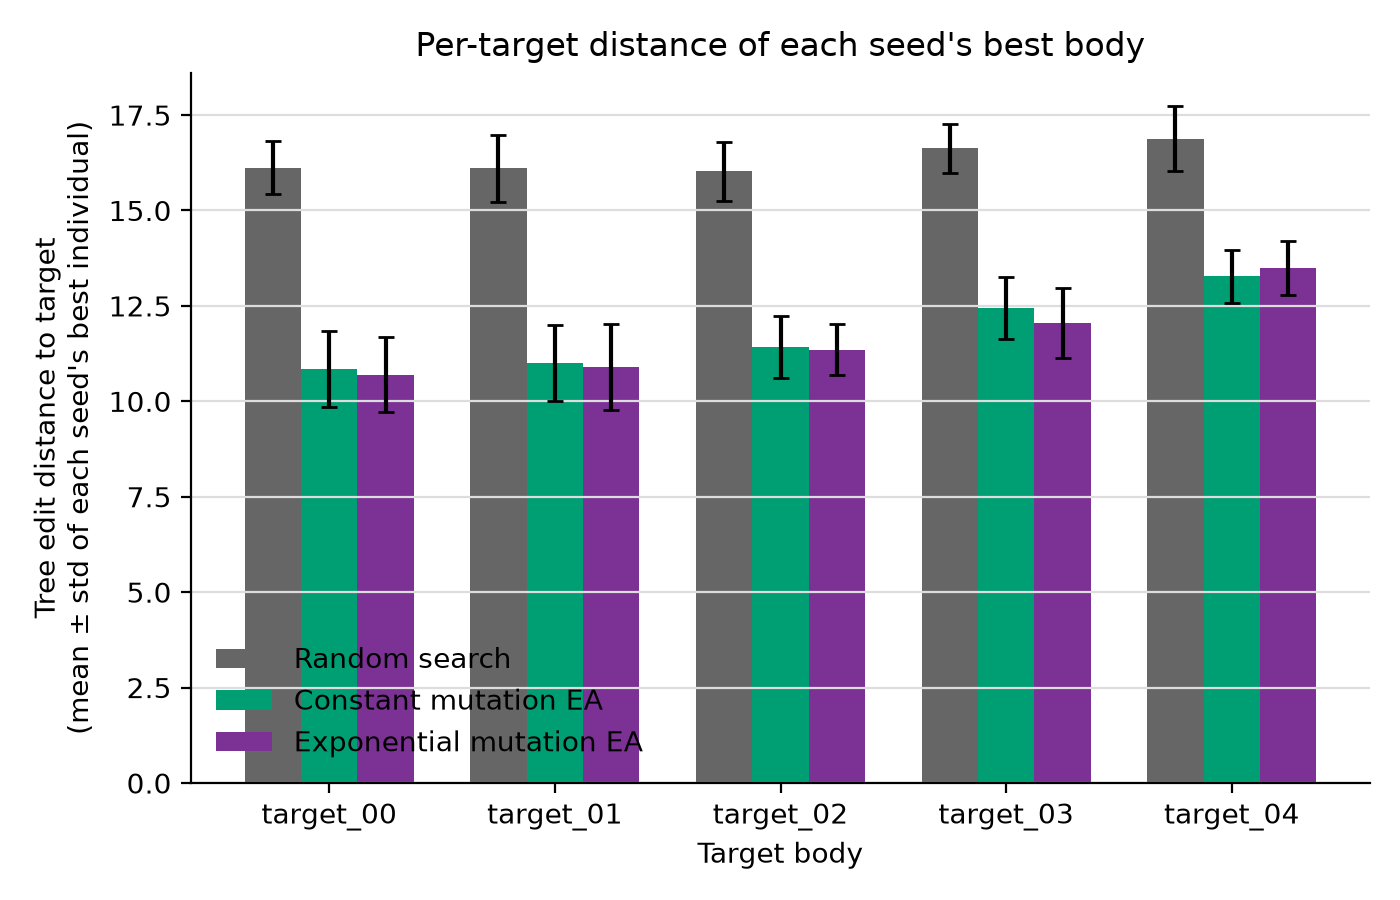
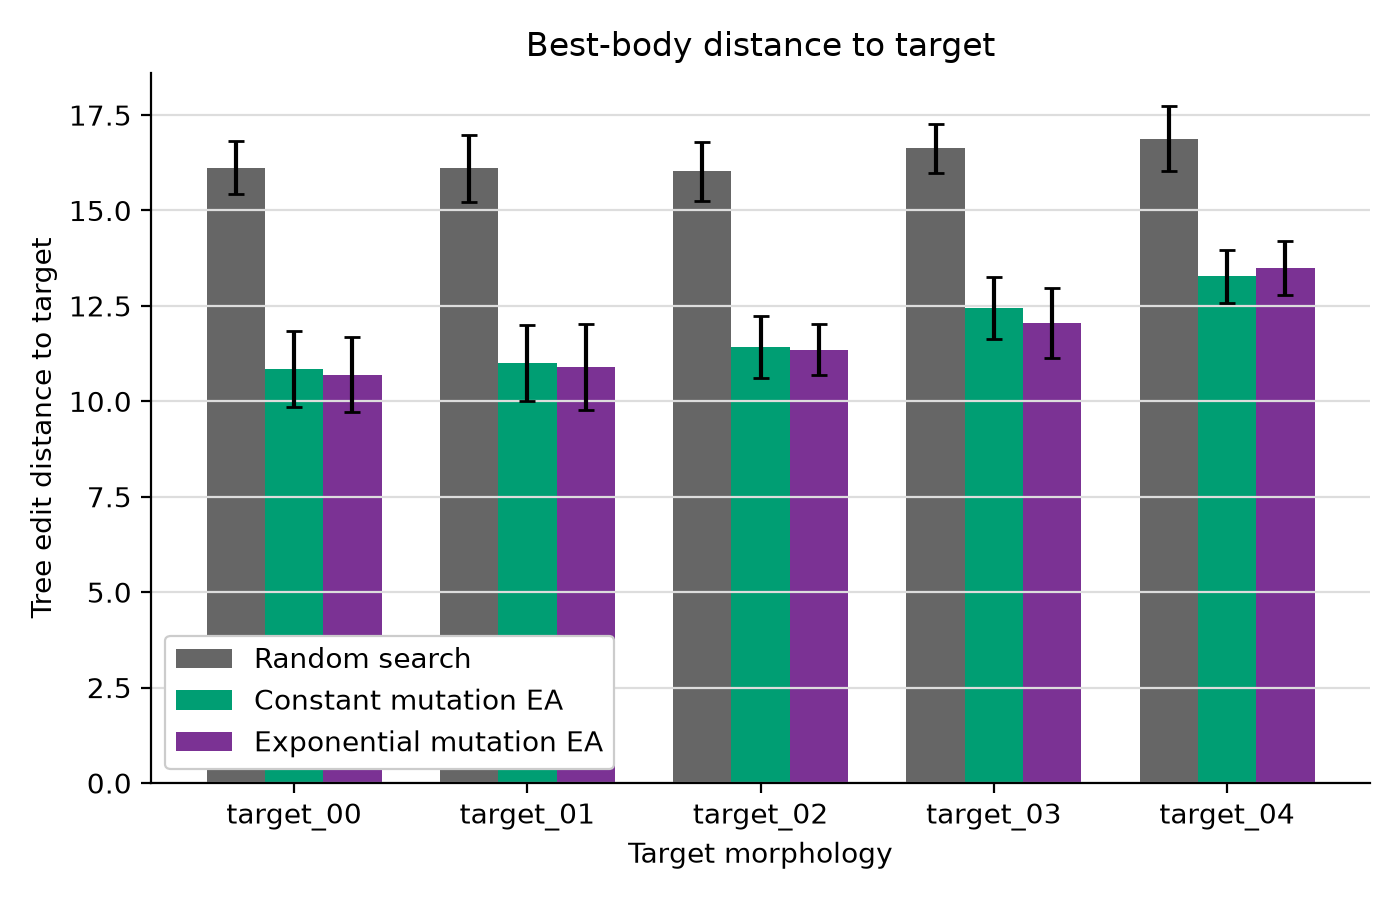
update plots

Changed region(s): [[0.0, 0.0933, 0.9214, 0.9644], [0.2764, 0.0311, 0.8293, 0.0622]]

diff --git a/assignments/assignment_1/analyze_results.py b/assignments/assignment_1/analyze_results.py
@@ -193,8 +193,8 @@ def plot_final_fitness_violin(
 
     ax.set_xticks(positions)
     ax.set_xticklabels([LABELS[c] for c in conditions])
-    ax.set_ylabel(f"Final best-so-far fitness ({(NUM_GENERATIONS + 1) * POP_SIZE} evals)\nlower is better")
-    ax.set_title(f"Final-fitness distribution across {len(SEEDS)} independent seeds")
+    ax.set_ylabel("Best fitness")
+    ax.set_title("Final fitness distribution")
     ax.grid(axis="y", color="#dddddd", linewidth=0.8)
     ax.spines["top"].set_visible(False)
     ax.spines["right"].set_visible(False)
@@ -269,15 +269,19 @@ def per_target_distance_analysis(
 
     ax.set_xticks(x)
     ax.set_xticklabels(target_names)
-    ax.set_xlabel("Target body")
-    ax.set_ylabel(
-        "Tree edit distance to target\n(mean ± std of each seed's best individual)",
-    )
-    ax.set_title("Per-target distance of each seed's best body")
+    ax.set_xlabel("Target morphology")
+    ax.set_ylabel("Tree edit distance to target")
+    ax.set_title("Best-body distance to target")
     ax.grid(axis="y", color="#dddddd", linewidth=0.8)
     ax.spines["top"].set_visible(False)
     ax.spines["right"].set_visible(False)
-    ax.legend(frameon=False)
+    # The bars run behind the legend, so it needs a fully opaque plate of its
+    # own - at 0.95 the bar colours still tint the swatches and read as data.
+    legend = ax.legend(
+        frameon=True, framealpha=1.0, facecolor="white", edgecolor="#cccccc",
+    )
+    legend.get_frame().set_linewidth(0.8)
+    legend.set_zorder(5)
     fig.tight_layout()
     fig.savefig(PLOTS_DIR / "per_target_distance.png", dpi=200)
     return manifest
@@ -709,9 +713,8 @@ def main(argv: list[str] | None = None) -> None:
         )
 
     ax.set_xlabel("Cumulative fitness evaluations")
-    ax.set_ylabel(f"Best-so-far fitness (mean ± std over {len(SEEDS)} seeds)\nlower is better")
-    ax.set_title("Convergence: mutation schedules and random search" if args.experiment in ("dynamic", "extreme")
-                 else "Convergence: mutation-only vs. mutation+crossover vs. random search")
+    ax.set_ylabel("Best fitness")
+    ax.set_title("Convergence")
     ax.grid(color="#dddddd", linewidth=0.8)
     ax.spines["top"].set_visible(False)
     ax.spines["right"].set_visible(False)
